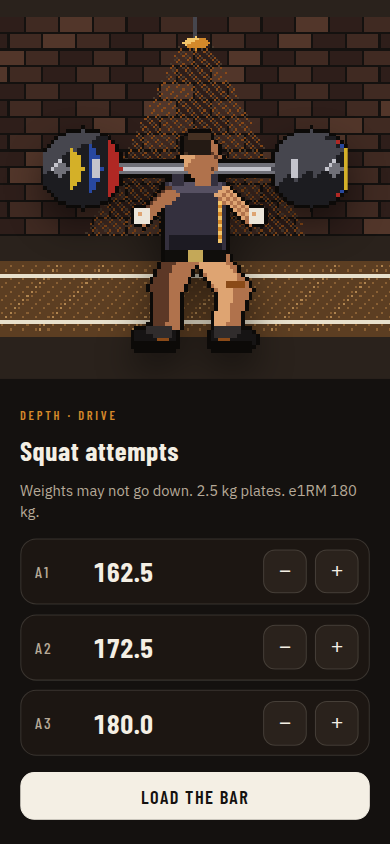
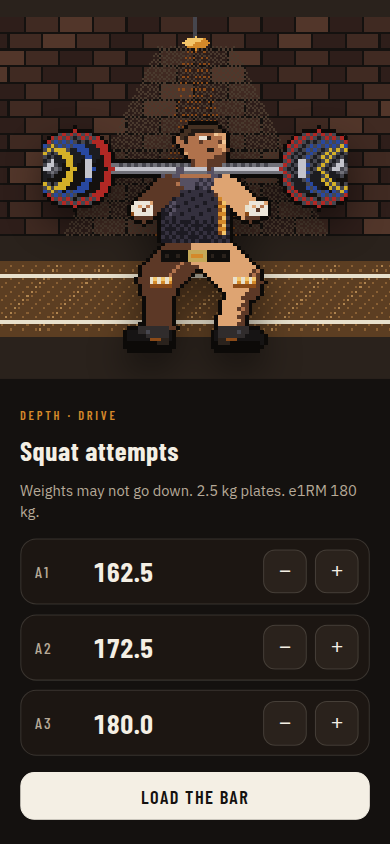
arcade: refresh in-app captures after strain pass
Record title, lift-select, and squat attempts against the
thicker faces/dither frames. Visual bar still ISSUES_REMAIN.

Changed region(s): [[0.0923, 0.0308, 0.8923, 0.4313], [0.4, 0.4005, 0.4308, 0.4313]]

diff --git a/arcade/evidence/visual-after/SELF_CRITIQUE.md b/arcade/evidence/visual-after/SELF_CRITIQUE.md
@@ -1,6 +1,6 @@
 # Visual self-critique — Iron & Amber Arcade sprite pass
 
-**Verdict: ISSUES_REMAIN.** This pass cannot self-certify a SNES/Genesis sports A/B (GDD §12.2 / §7.1). It removes the agreed defects (fringe, chroma, noisy title) and keeps lift-specific silhouettes.
+**Verdict: ISSUES_REMAIN.** This pass cannot self-certify a SNES/Genesis sports A/B (GDD §12.2 / §7.1). It removes the agreed defects (fringe, chroma, noisy title) and keeps lift-specific silhouettes. An independent critic confirmed the bar is still lost: heads/bodies remain simpler than Slam Masters / Street Fighter II sheets, and a maximal attempt still uses the same six poses as a light one.
 
 ## What changed
 
